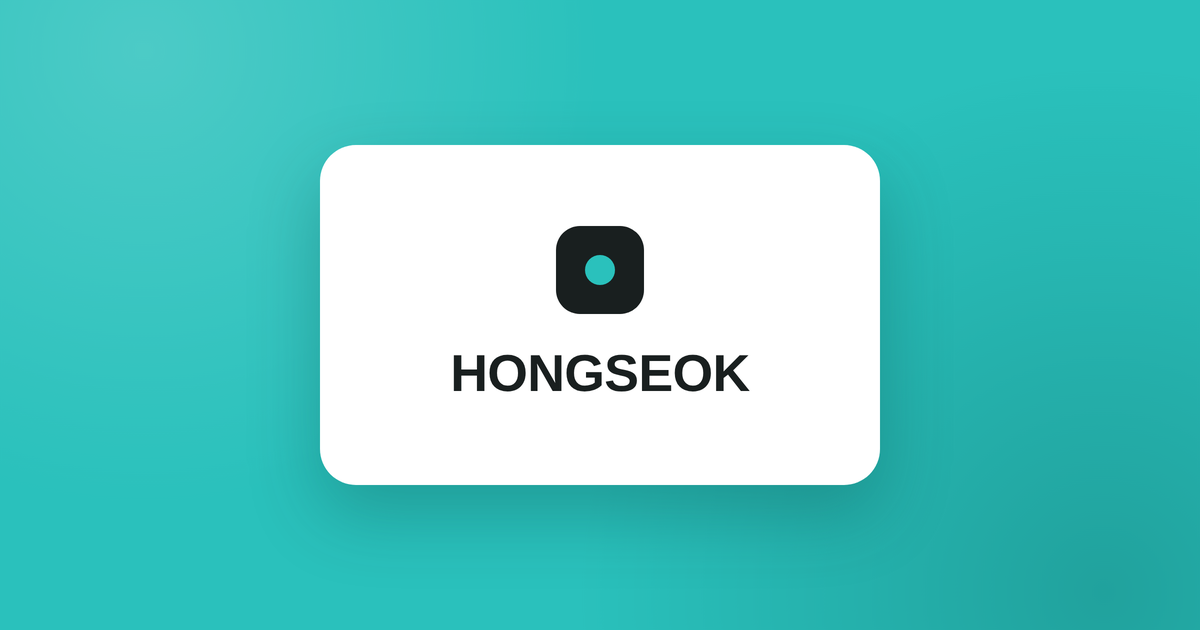
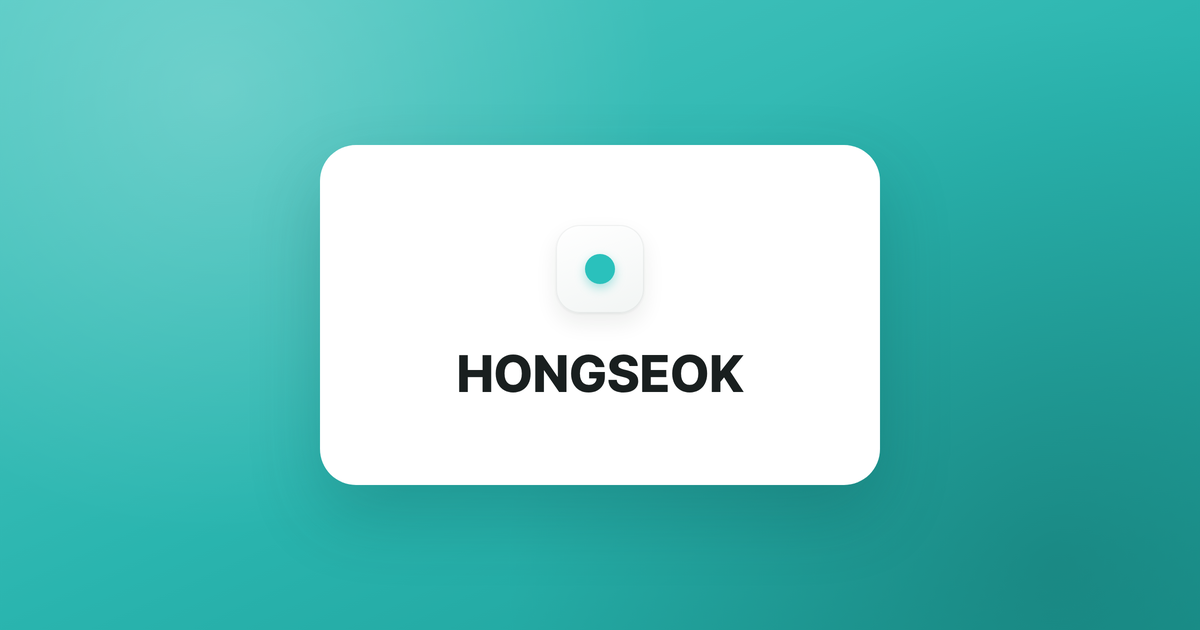
메타 이미지 재디자인 및 og:url·절대 이미지 URL 반영
- 배경을 단색 민트에서 은은한 그라디언트로, 로고 마크를 흰색 톤온톤으로 변경(민트 도트만 포인트)
- Pretendard 폰트를 실제로 반영해 재생성 (이전 렌더링은 폰트 로드 실패로 폴백 폰트 사용됨)
- 배포 도메인(talkspinout.github.io/hongseok-portfolio)을 반영해 og:image·twitter:image를 절대 URL로, og:url 추가 — 링크드인 등에서 메타 이미지가 안정적으로 크롤링되도록 함

diff --git a/about.html b/about.html
@@ -9,15 +9,16 @@
   <title>소개 — 고홍석</title>
   <meta name="description" content="GTM 전략부터 실행까지, 마케팅 전 과정을 연결해 성과 구조로 만드는 마케터 고홍석을 소개합니다." />
   <meta property="og:type" content="website" />
+  <meta property="og:url" content="https://talkspinout.github.io/hongseok-portfolio/about.html" />
   <meta property="og:title" content="소개 — 고홍석" />
   <meta property="og:description" content="GTM 전략부터 실행까지, 마케팅 전 과정을 연결해 성과 구조로 만드는 마케터 고홍석을 소개합니다." />
-  <meta property="og:image" content="assets/og-image.png" />
+  <meta property="og:image" content="https://talkspinout.github.io/hongseok-portfolio/assets/og-image.png" />
   <meta property="og:image:width" content="1200" />
   <meta property="og:image:height" content="630" />
   <meta name="twitter:card" content="summary_large_image" />
   <meta name="twitter:title" content="소개 — 고홍석" />
   <meta name="twitter:description" content="GTM 전략부터 실행까지, 마케팅 전 과정을 연결해 성과 구조로 만드는 마케터 고홍석을 소개합니다." />
-  <meta name="twitter:image" content="assets/og-image.png" />
+  <meta name="twitter:image" content="https://talkspinout.github.io/hongseok-portfolio/assets/og-image.png" />
   <link rel="stylesheet" href="https://cdn.jsdelivr.net/gh/orioncactus/pretendard@v1.3.9/dist/web/variable/pretendardvariable-dynamic-subset.min.css" />
   <link rel="stylesheet" href="assets/style.css" />
 </head>

diff --git a/index.html b/index.html
@@ -9,15 +9,16 @@
   <title>마케팅 기획자 고홍석</title>
   <meta name="description" content="GTM 전략부터 콘텐츠, 퍼포먼스, CRM, SEO까지 마케팅 전 과정을 연결해 성과 구조로 만드는 마케터 고홍석의 포트폴리오입니다." />
   <meta property="og:type" content="website" />
+  <meta property="og:url" content="https://talkspinout.github.io/hongseok-portfolio/" />
   <meta property="og:title" content="마케팅 기획자 고홍석" />
   <meta property="og:description" content="GTM 전략부터 콘텐츠, 퍼포먼스, CRM, SEO까지 마케팅 전 과정을 연결해 성과 구조로 만드는 마케터 고홍석의 포트폴리오입니다." />
-  <meta property="og:image" content="assets/og-image.png" />
+  <meta property="og:image" content="https://talkspinout.github.io/hongseok-portfolio/assets/og-image.png" />
   <meta property="og:image:width" content="1200" />
   <meta property="og:image:height" content="630" />
   <meta name="twitter:card" content="summary_large_image" />
   <meta name="twitter:title" content="마케팅 기획자 고홍석" />
   <meta name="twitter:description" content="GTM 전략부터 콘텐츠, 퍼포먼스, CRM, SEO까지 마케팅 전 과정을 연결해 성과 구조로 만드는 마케터 고홍석의 포트폴리오입니다." />
-  <meta name="twitter:image" content="assets/og-image.png" />
+  <meta name="twitter:image" content="https://talkspinout.github.io/hongseok-portfolio/assets/og-image.png" />
   <link rel="stylesheet" href="https://cdn.jsdelivr.net/gh/orioncactus/pretendard@v1.3.9/dist/web/variable/pretendardvariable-dynamic-subset.min.css" />
   <link rel="stylesheet" href="assets/style.css" />
 </head>

diff --git a/lab.html b/lab.html
@@ -9,15 +9,16 @@
   <title>소소한 프로젝트 — 고홍석</title>
   <meta name="description" content="마케팅 프레임워크와 소소한 개인 프로젝트를 공개하는 공간입니다." />
   <meta property="og:type" content="website" />
+  <meta property="og:url" content="https://talkspinout.github.io/hongseok-portfolio/lab.html" />
   <meta property="og:title" content="소소한 프로젝트 — 고홍석" />
   <meta property="og:description" content="마케팅 프레임워크와 소소한 개인 프로젝트를 공개하는 공간입니다." />
-  <meta property="og:image" content="assets/og-image.png" />
+  <meta property="og:image" content="https://talkspinout.github.io/hongseok-portfolio/assets/og-image.png" />
   <meta property="og:image:width" content="1200" />
   <meta property="og:image:height" content="630" />
   <meta name="twitter:card" content="summary_large_image" />
   <meta name="twitter:title" content="소소한 프로젝트 — 고홍석" />
   <meta name="twitter:description" content="마케팅 프레임워크와 소소한 개인 프로젝트를 공개하는 공간입니다." />
-  <meta name="twitter:image" content="assets/og-image.png" />
+  <meta name="twitter:image" content="https://talkspinout.github.io/hongseok-portfolio/assets/og-image.png" />
   <link rel="stylesheet" href="https://cdn.jsdelivr.net/gh/orioncactus/pretendard@v1.3.9/dist/web/variable/pretendardvariable-dynamic-subset.min.css" />
   <link rel="stylesheet" href="assets/style.css" />
 </head>

diff --git a/portfolio.html b/portfolio.html
@@ -9,15 +9,16 @@
   <title>자세한 포트폴리오 — 고홍석</title>
   <meta name="description" content="고홍석의 상세 포트폴리오는 열람 신청 후 Google Docs로 공유됩니다." />
   <meta property="og:type" content="website" />
+  <meta property="og:url" content="https://talkspinout.github.io/hongseok-portfolio/portfolio.html" />
   <meta property="og:title" content="자세한 포트폴리오 — 고홍석" />
   <meta property="og:description" content="고홍석의 상세 포트폴리오는 열람 신청 후 Google Docs로 공유됩니다." />
-  <meta property="og:image" content="assets/og-image.png" />
+  <meta property="og:image" content="https://talkspinout.github.io/hongseok-portfolio/assets/og-image.png" />
   <meta property="og:image:width" content="1200" />
   <meta property="og:image:height" content="630" />
   <meta name="twitter:card" content="summary_large_image" />
   <meta name="twitter:title" content="자세한 포트폴리오 — 고홍석" />
   <meta name="twitter:description" content="고홍석의 상세 포트폴리오는 열람 신청 후 Google Docs로 공유됩니다." />
-  <meta name="twitter:image" content="assets/og-image.png" />
+  <meta name="twitter:image" content="https://talkspinout.github.io/hongseok-portfolio/assets/og-image.png" />
   <link rel="stylesheet" href="https://cdn.jsdelivr.net/gh/orioncactus/pretendard@v1.3.9/dist/web/variable/pretendardvariable-dynamic-subset.min.css" />
   <link rel="stylesheet" href="assets/style.css" />
   <link rel="stylesheet" href="assets/lead-form.css" />

diff --git a/sentence.html b/sentence.html
@@ -9,15 +9,16 @@
   <title>오늘의 문장 자판기 | 고홍석</title>
   <meta name="description" content="레버를 누르고 우리를 위한 문장 중 하나를 뽑아보세요." />
   <meta property="og:type" content="website" />
+  <meta property="og:url" content="https://talkspinout.github.io/hongseok-portfolio/sentence.html" />
   <meta property="og:title" content="오늘의 문장 자판기 | 고홍석" />
   <meta property="og:description" content="레버를 누르고 우리를 위한 문장 중 하나를 뽑아보세요." />
-  <meta property="og:image" content="assets/og-image.png" />
+  <meta property="og:image" content="https://talkspinout.github.io/hongseok-portfolio/assets/og-image.png" />
   <meta property="og:image:width" content="1200" />
   <meta property="og:image:height" content="630" />
   <meta name="twitter:card" content="summary_large_image" />
   <meta name="twitter:title" content="오늘의 문장 자판기 | 고홍석" />
   <meta name="twitter:description" content="레버를 누르고 우리를 위한 문장 중 하나를 뽑아보세요." />
-  <meta name="twitter:image" content="assets/og-image.png" />
+  <meta name="twitter:image" content="https://talkspinout.github.io/hongseok-portfolio/assets/og-image.png" />
   <link rel="stylesheet" href="https://cdn.jsdelivr.net/gh/orioncactus/pretendard@v1.3.9/dist/web/variable/pretendardvariable-dynamic-subset.min.css" />
   <link rel="stylesheet" href="assets/style.css" />
   <link rel="stylesheet" href="assets/sentence.css" />